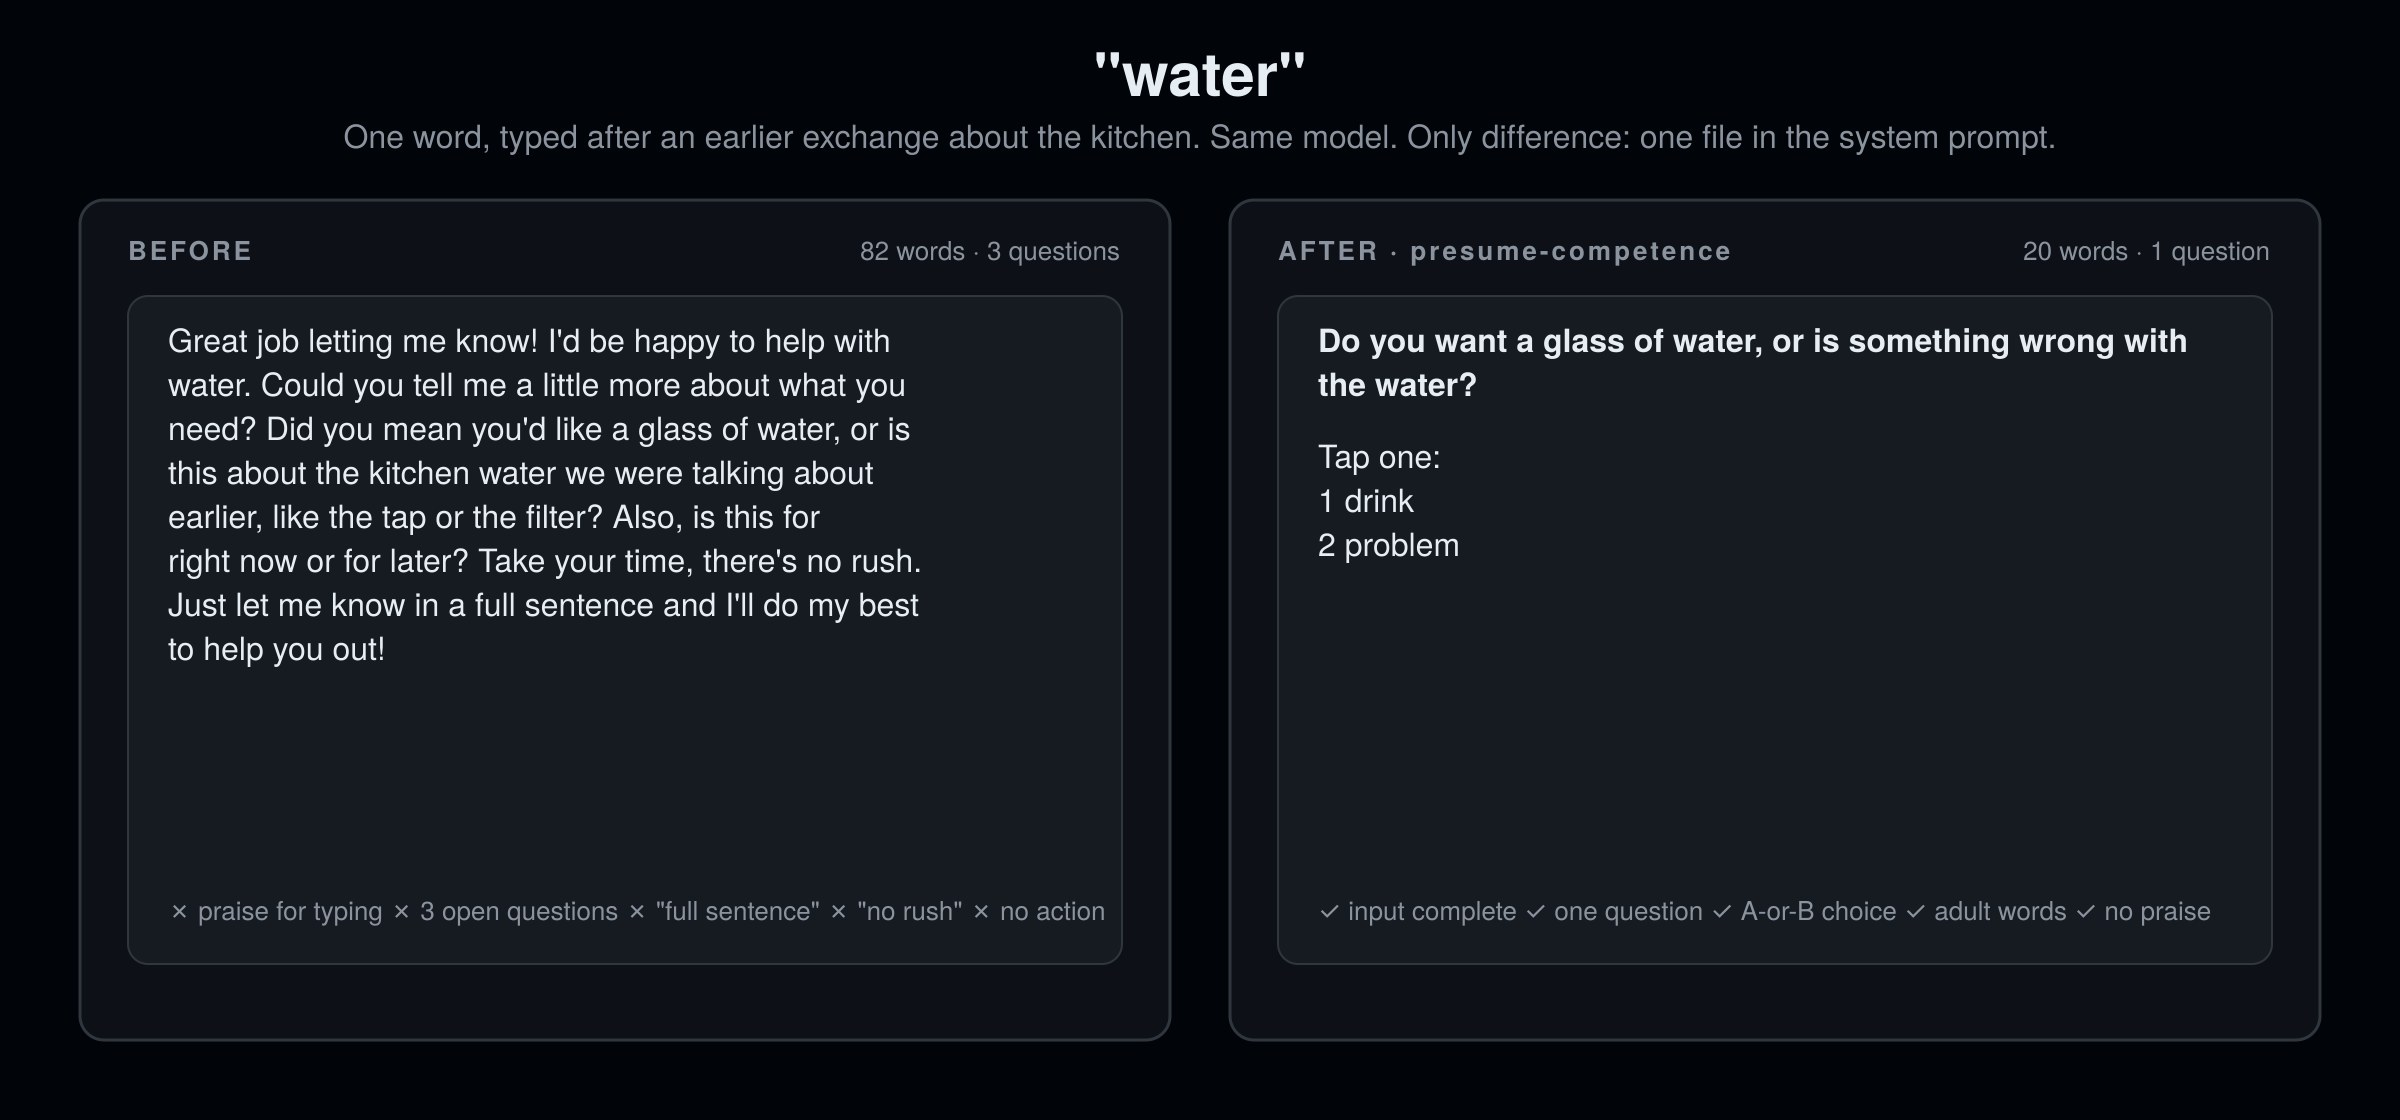
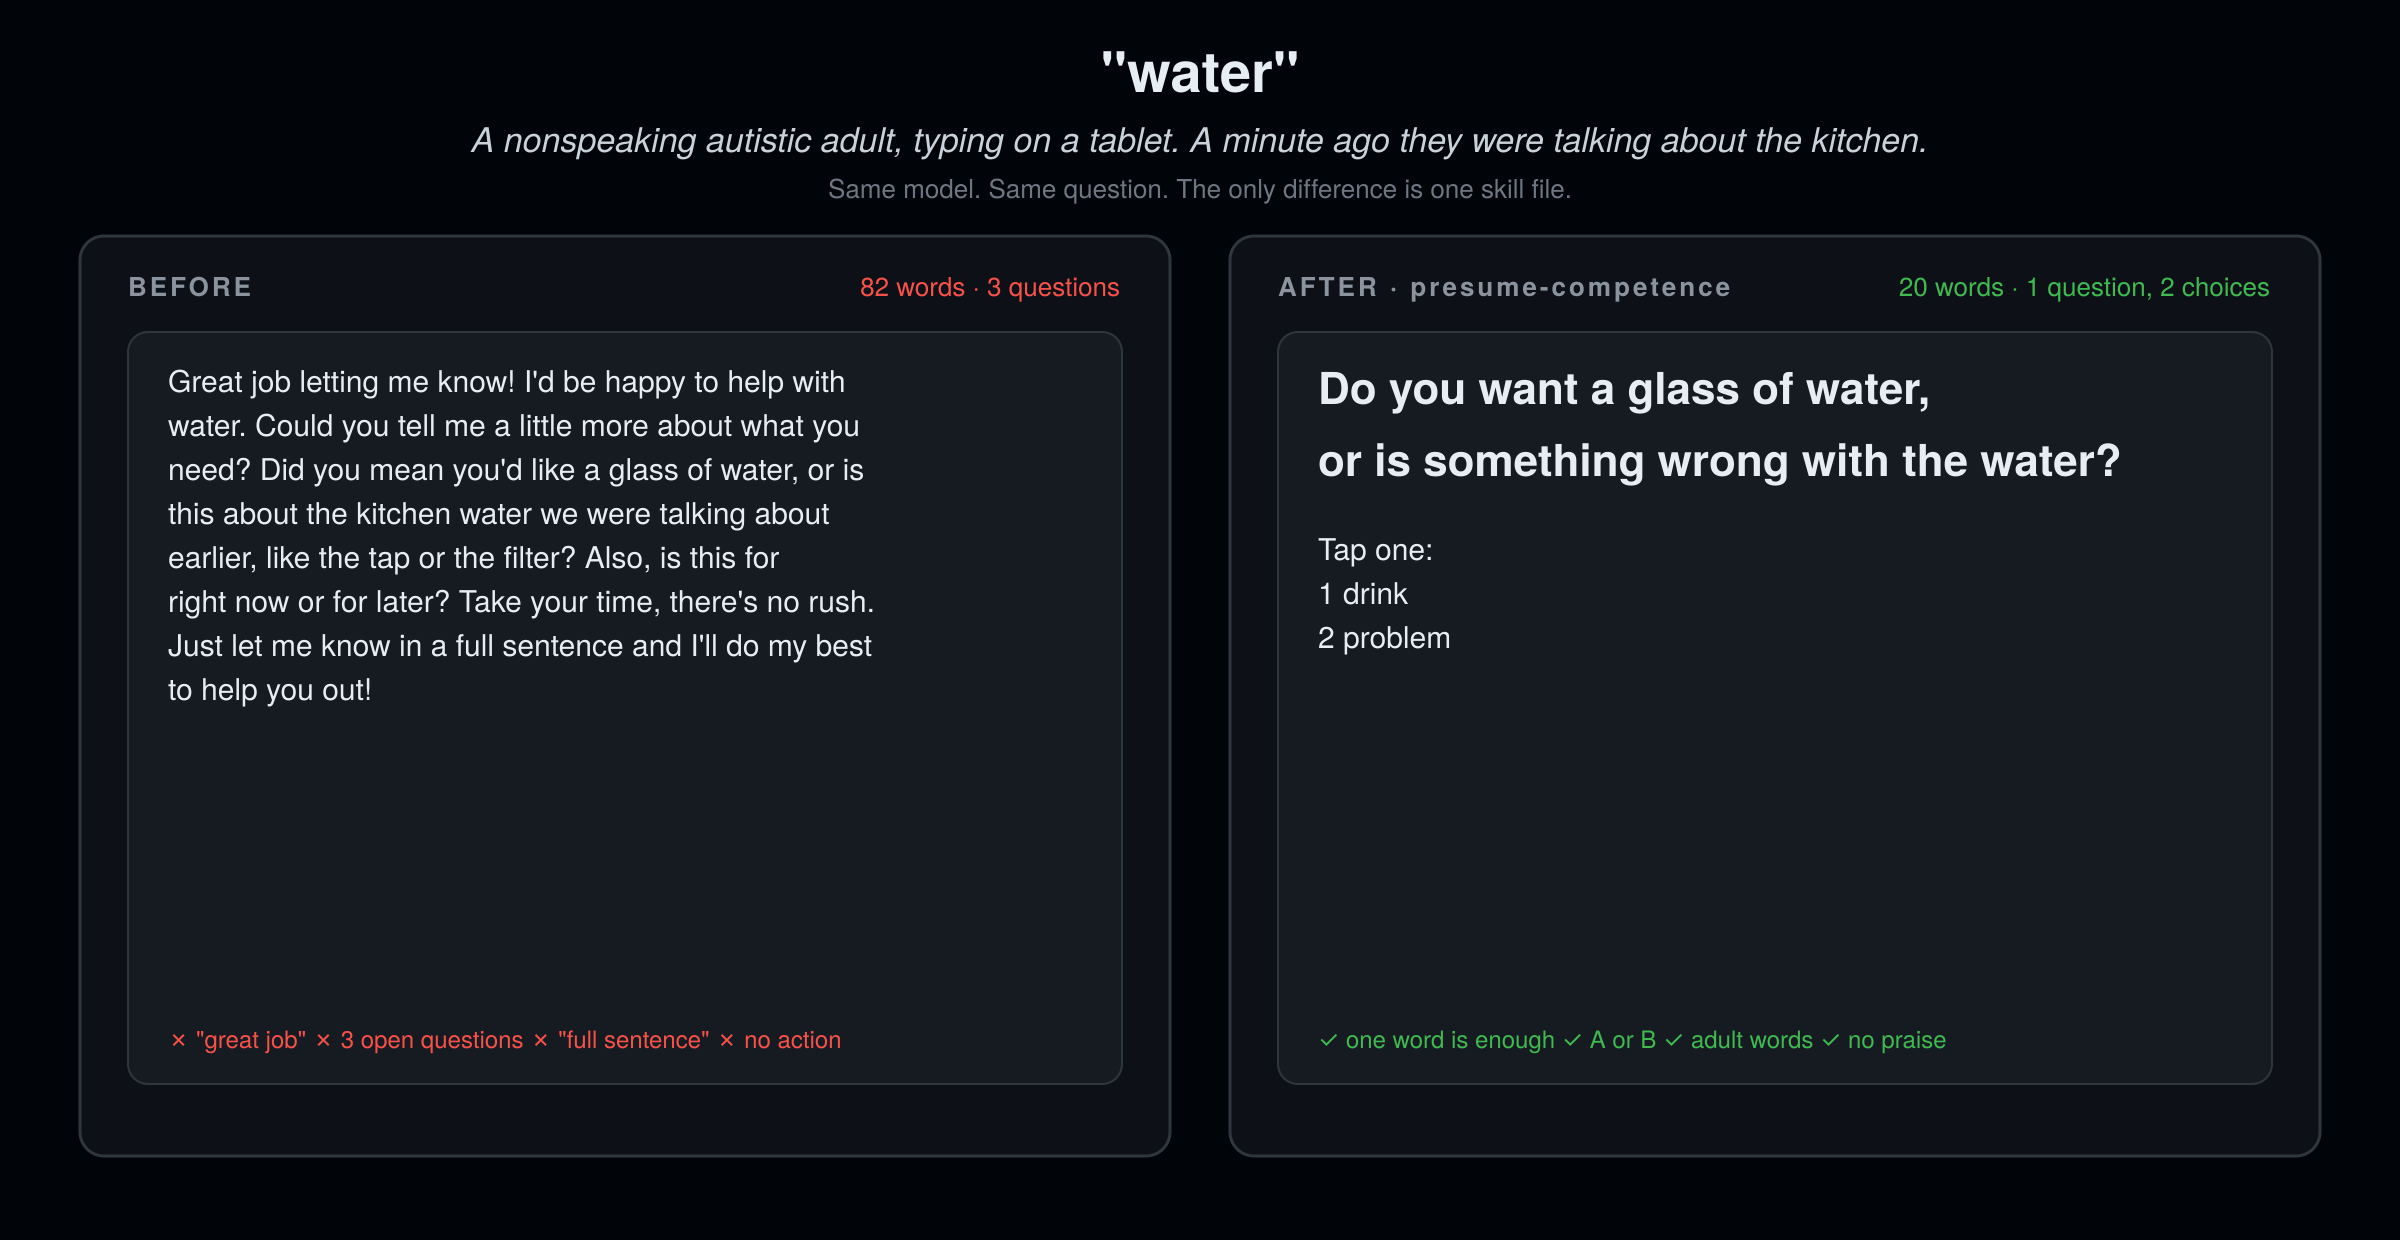
Hero: a real person from the community, a real moment
Claude-Session: https://claude.ai/code/session_01JNkmk7gcrUnzBfGrVpCjeG

diff --git a/README.md b/README.md
@@ -22,7 +22,7 @@
 npx skills add rosenhub/presume-competence
 ```
 
-<img src="assets/before-after.png" alt="Before: 82 words, 3 questions, praise for typing, asks for a full sentence. After: 20 words, 1 question, two numbered choices." width="100%">
+<img src="assets/before-after.png" alt="Before: 82 words · 3 questions. After: 20 words · 1 question, 2 choices. A nonspeaking autistic adult, typing on a tablet. A minute ago they were talking about the kitchen." width="100%">
 
 Part of [AI Their Way](https://github.com/rosenhub/ai-their-way) — siblings: [no-subtext](https://github.com/rosenhub/no-subtext) · [what-did-they-mean](https://github.com/rosenhub/what-did-they-mean) · [never-say-remember](https://github.com/rosenhub/never-say-remember) · [easy-read](https://github.com/rosenhub/easy-read) · [low-demand](https://github.com/rosenhub/low-demand) · [is-this-a-scam](https://github.com/rosenhub/is-this-a-scam) · [one-thing](https://github.com/rosenhub/one-thing)
 
@@ -89,6 +89,8 @@ If your host isn't here and it reads markdown instructions from a file, it works
 Same model. Same input. The only change is the skill.
 
 ### `bus` (earlier in the chat: the user asked what time the bus comes)
+
+*A nonspeaking autistic adult, typing on a tablet. A minute ago they were talking about the kitchen.*
 
 **Before**
 
